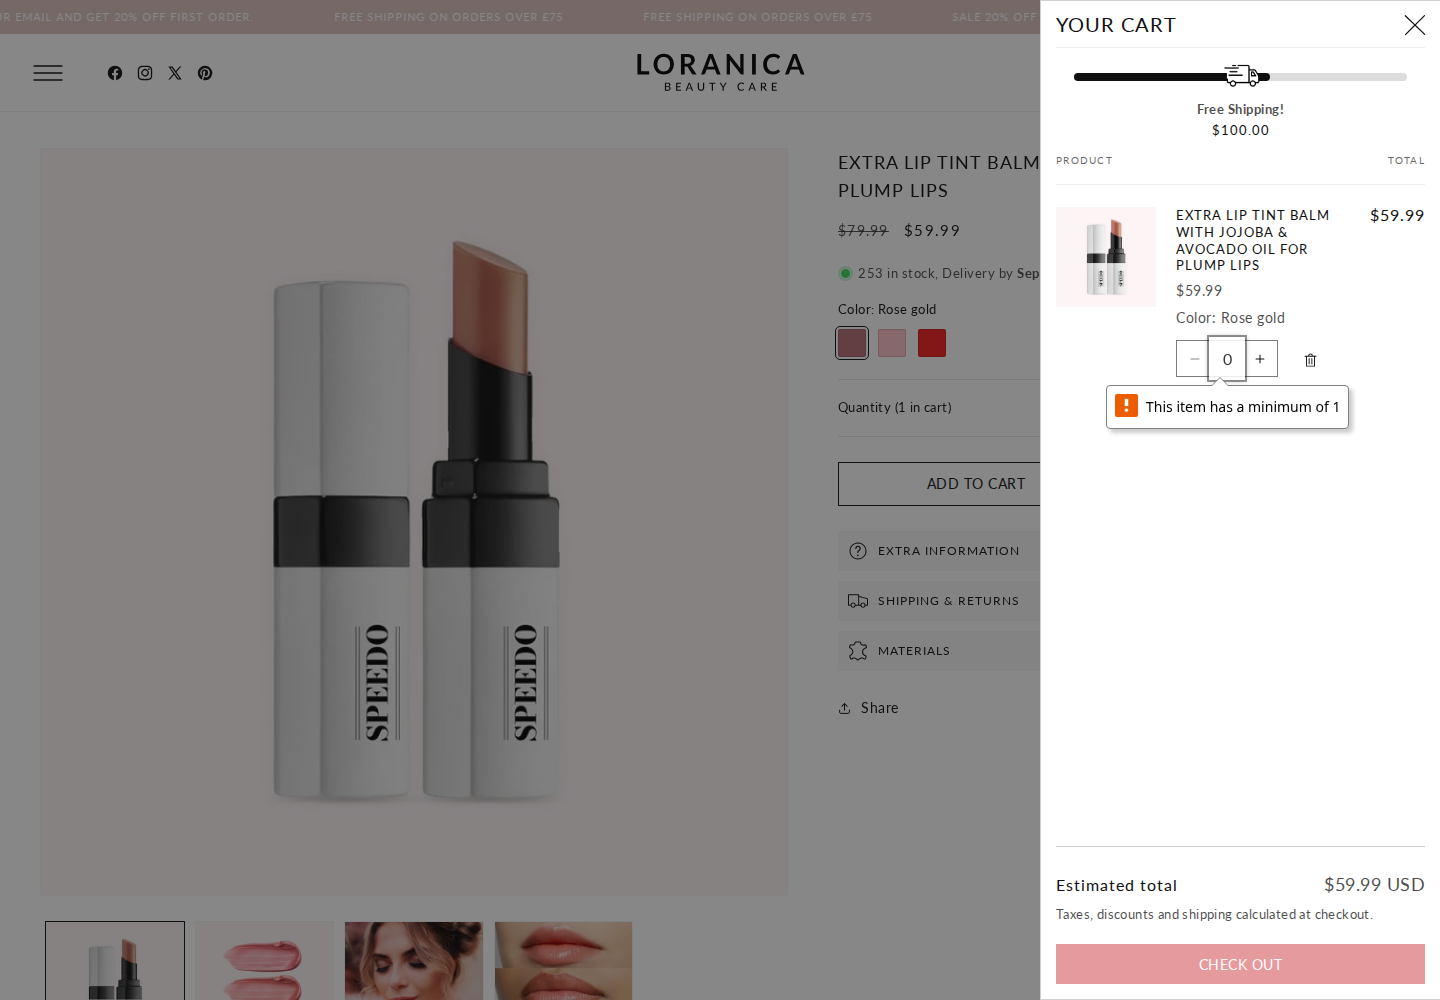
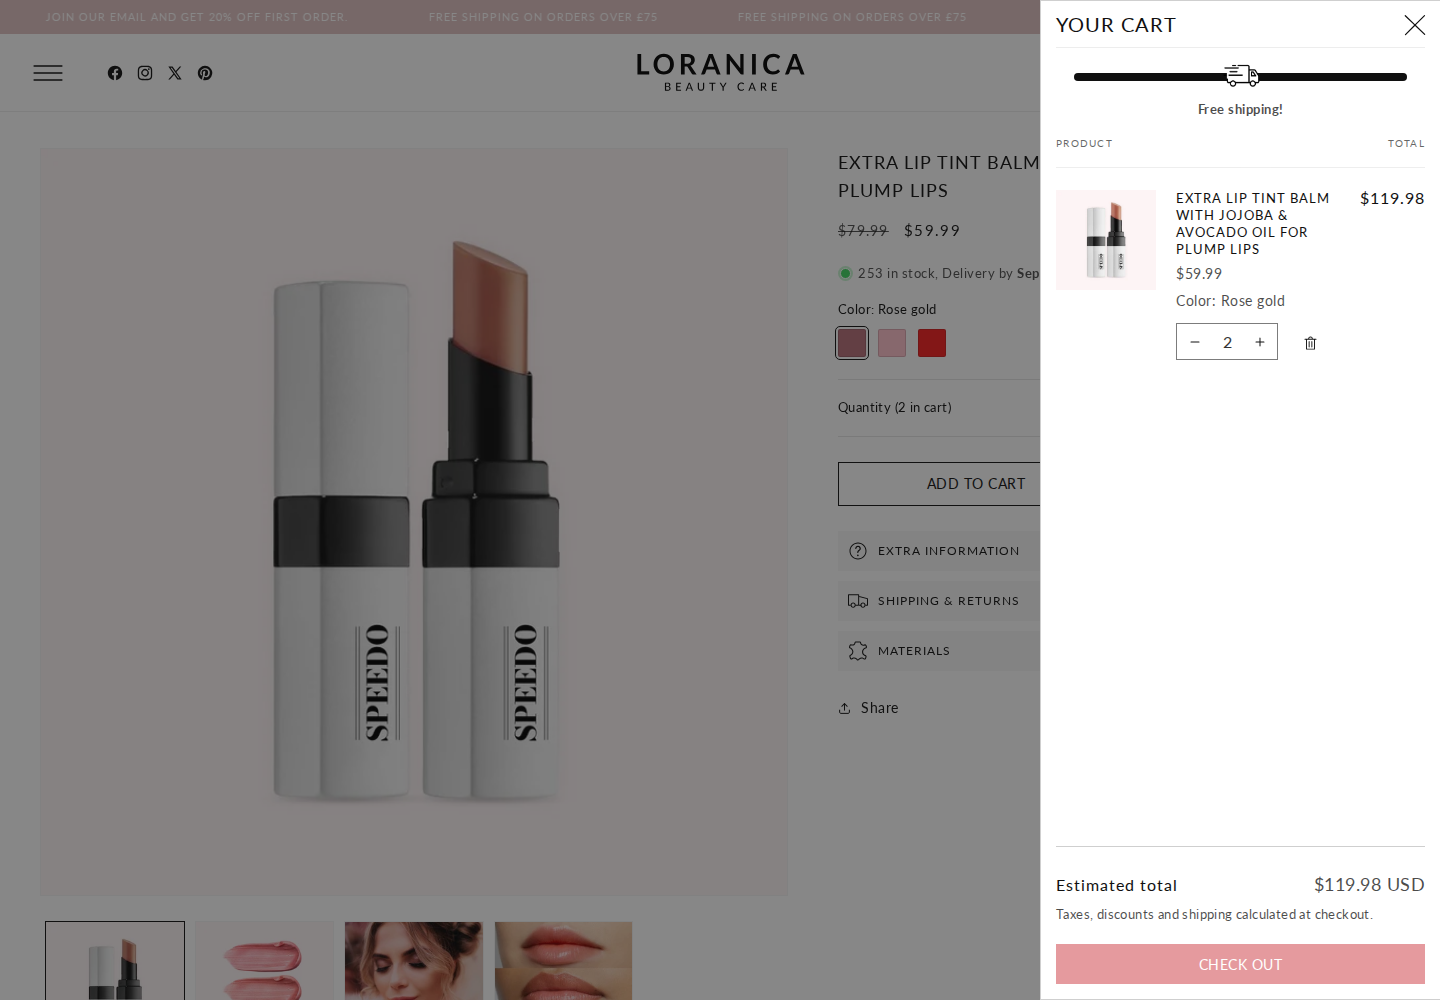
Loranica interact retry: search, cart qty 2, findings
Predictive search skincare shows 9 products. Cart plus raises qty to 2
($119.98, Free shipping). Menu drawer and featured hover still have no
pixel change after one retry — recorded in missingStates. No new schemas.

diff --git a/todo/loranica.md b/todo/loranica.md
@@ -15,8 +15,8 @@ Sayfa başlığı: **Best Shopify Loranica Beauty Care Store – Women Beauty 5 
 
 **Password:** Speedo ürün sayfası “Please enter password `1` to view demo.” Aynı host `/password` — public storefront-unlock. Başka host yok.
 
-**Durum:** 🟡 Mod A 3vp + interact 1. tur · retry: menu forceOpen / search inner details / cart plus / featured .card__inner  
-**PR:** draft · **main'e merge yok**
+**Durum:** ✅ Mod A 3vp + interact (şema yok) · menu open/changed + featured hover missingStates  
+**PR:** draft https://github.com/mattiasadem/qante/pull/373 · **main'e merge yok**
 
 ---
 
@@ -40,21 +40,21 @@ Sayfa başlığı: **Best Shopify Loranica Beauty Care Store – Women Beauty 5 
 
 | Şablon | Durum | 3vp |
 |---|---|---|
-| Home + announcement/header/hero/featured/rich-text/categories/best-selling/banners/trust/overlay/blog/footer | roster | [ ] |
+| Home + announcement/header/hero/featured/rich-text/categories/best-selling/banners/trust/overlay/blog/footer | roster | [x] |
 | Mega 1440 | yok — hamburger all vp | leftover |
-| Predictive search `cream`/`nail` | interact sırada | [ ] |
-| Mobile + 1440 menu drawer | interact sırada | [ ] |
-| Cart drawer empty + filled + qty | interact sırada | [ ] |
-| PDP Extra Lip Tint Color Rose gold→Pink | interact sırada | [ ] |
-| PLP `/collections/new-arrival` | roster | [ ] |
-| Collections `/collections` | roster | [ ] |
-| Search `/search?q=cream` | roster | [ ] |
-| Cart `/cart` empty + filled | interact sırada | [ ] |
-| About `/pages/about-us` | roster | [ ] |
-| Contact `/pages/contact` (submit yok) | roster | [ ] |
-| FAQ `/pages/faqs` | roster + interact | [ ] |
-| Blog `/blogs/news` + lazy-skincare post | roster | [ ] |
-| 404 leftover | roster | [ ] |
+| Predictive search `skincare` | interact — 9 PRODUCTS | [x] |
+| Mobile + 1440 menu drawer | missingStates (2 deneme) | [x] |
+| Cart drawer empty + filled + qty 2 | interact | [x] |
+| PDP Extra Lip Tint Color Rose gold→Pink | interact | [x] |
+| PLP `/collections/new-arrival` | roster | [x] |
+| Collections `/collections` | roster | [x] |
+| Search `/search?q=cream` | roster | [x] |
+| Cart `/cart` empty + filled + qty 2 | interact | [x] |
+| About `/pages/about-us` | roster | [x] |
+| Contact `/pages/contact` (submit yok) | roster | [x] |
+| FAQ `/pages/faqs` | roster + Q2 açık | [x] |
+| Blog `/blogs/news` + lazy-skincare post | roster | [x] |
+| 404 leftover | roster | [x] |
 | Email / account / checkout / newsletter submit | ⛔ PII | — |
 
 ---
@@ -66,7 +66,7 @@ Sayfa başlığı: **Best Shopify Loranica Beauty Care Store – Women Beauty 5 
 | 1 | c46903b8 announcement swiper | `promo-announcement-bar` | reuse |
 | 2 | header | `navigation-header-mega` | reuse · hamburger 1440 (mega yok) |
 | 3 | 3b7cb796 slideshow | `hero-slideshow` | reuse |
-| 4 | featured_collection SHOP TEES | `product-showcase-grid-featured` | reuse |
+| 4 | featured_collection SHOP TEES | `product-showcase-grid-featured` | reuse · hover missing |
 | 5 | f585c67b rich-text | `editorial-rich-text` | reuse |
 | 6 | 07468762 SHOP BY CATEGORY | `collection-nav-image-cards` | reuse |
 | 7 | 74b4724b BEST SELLING | `product-showcase-grid-featured.2` | reuse |
@@ -75,9 +75,9 @@ Sayfa başlığı: **Best Shopify Loranica Beauty Care Store – Women Beauty 5 
 | 10 | c5bb1ddd 100% NATURAL SKINCARE | `editorial-image-with-text-overlay` | reuse |
 | 11 | 1f806fa0 LATEST NEWS | `blog-list-main` | reuse |
 | 12 | footer | `footer-columns-newsletter` | reuse |
-| 13 | #CartDrawer | `global-cart-drawer` | reuse · interact |
-| 14 | #menu-drawer | `global-menu-drawer` | reuse · 375/768/1440 |
-| 15 | details-modal.header__search | `global-predictive-search` | reuse · interact |
+| 13 | #CartDrawer | `global-cart-drawer` | reuse · filled + qty 2 |
+| 14 | #menu-drawer | `global-menu-drawer` | reuse · open/changed missing |
+| 15 | details-modal.header__search | `global-predictive-search` | reuse · skincare 9 |
 | — | newsletter-popup h=0 | leftover | — |
 | — | /pages/wishlist | leftover | — |
 
@@ -112,7 +112,6 @@ Aynı tip = şemaya dokunma, observation + delta. Yeni şema yok.
 ## Evidence backlog
 
 - [x] Official 3vp static (`capture-observation.mjs`)
-- [x] Interact 1. tur (PDP Pink, tabs, FAQ, cart filled kanıtlı)
-- [ ] Retry menu forceOpen / search fill / cart plus / featured hover
-- [x] PNG bak → stateFindings (doğrulananlar)
-- [ ] `node scripts/validate-schemas.mjs` — şema dokunulmadı
+- [x] Interact menu / search / cart / PDP swatch / FAQ / hover
+- [x] PNG bak → stateFindings
+- [x] `node scripts/validate-schemas.mjs` — şema dokunulmadı

diff --git a/todo/README.md b/todo/README.md
@@ -71,7 +71,7 @@
 | PAW (Speedo Petz) | [`paw.md`](./paw.md) | ✅ first inventory + interact — 42 obs · 152 PNG · 0 yeni şema |
 | PMG (Speedo Themes) | [`pmg.md`](./pmg.md) | ✅ first inventory — gamming-store-1 · password `1` · 39 obs · 0 yeni şema · interact mega/search/cart/chair/FAQ; hamburger+hero missingStates |
 | Qreal (Speedo Cosmetic) | [`qreal.md`](./qreal.md) | 🟡 — 52 obs · 203 PNG · 0 yeni şema · women-beauty-8 · password 1 |
-| Loranica (Speedo Beauty Care) | [`loranica.md`](./loranica.md) | 🟡 first inventory — women-beauty-5 · Loranica beauty care 1.5.0 · password `1` · 38 obs · 0 yeni şema |
+| Loranica (Speedo Beauty Care) | [`loranica.md`](./loranica.md) | ✅ first inventory + interact — women-beauty-5 · Loranica beauty care 1.5.0 · password `1` · 38 obs · 0 yeni şema · menu+featured hover missingStates |
 | Roomify (Speedo · furniture) | [`roomify.md`](./roomify.md) | 🟡 default — 39 obs · 166 PNG · 0 yeni şema · interact findings (menu/tabs/hero/PDP changed missing) |
 | Saffron (Speedo · Midnight Perfume) | [`saffron.md`](./saffron.md) | ✅ first inventory — password `1` · 39 obs · 167 PNG · 0 yeni şema |
 | Shrilahome (Speedo) | [`shrilahome.md`](./shrilahome.md) | ✅ Mod A + interact — 38 obs · 166 PNG · 0 yeni şema · password `1` · menu/search overlay missing |

diff --git a/candidates/loranica-leftovers.md b/candidates/loranica-leftovers.md
@@ -89,3 +89,19 @@ Gerekçe: Footer SIGN UP FOR 15% OFF. Email submit PII stop.
 Örnekler: footer  
 Öneri: leftover — form submit yok  
 Karar: duruldu
+
+---
+
+ADAY: loranica-menu-drawer-capture  
+Gerekçe: Probe hamburger tıkı drawer’ı x=0’a getirir (Home / Shop / Best Seller / …). Resmi `capture-interaction` 1. tur kapalı homepage; 2. tur forceOpen `#Details-menu-drawer-container` + `#menu-drawer` viewport karesi hâlâ homepage (375 karartı var, panel yok). Dawn `menu-opening` class’ı script forceOpen’da yok. Shop `#HeaderDrawer-shop` viewport dışı.  
+Örnekler: #menu-drawer · #Details-menu-drawer-container  
+Öneri: leftover — open/changed missingStates; şema yok  
+Karar: iki deneme bitti
+
+---
+
+ADAY: loranica-featured-hover  
+Gerekçe: Scan 12 medya kutusunda 2+ img. 1440 hover `.card__media` ve `.card__inner` PNG’leri static 1440 ile byte-aynı (89629). İkinci görsel / Quick View görünmedi.  
+Örnekler: home featured SHOP TEES  
+Öneri: leftover — hover missingStates  
+Karar: iki deneme bitti
